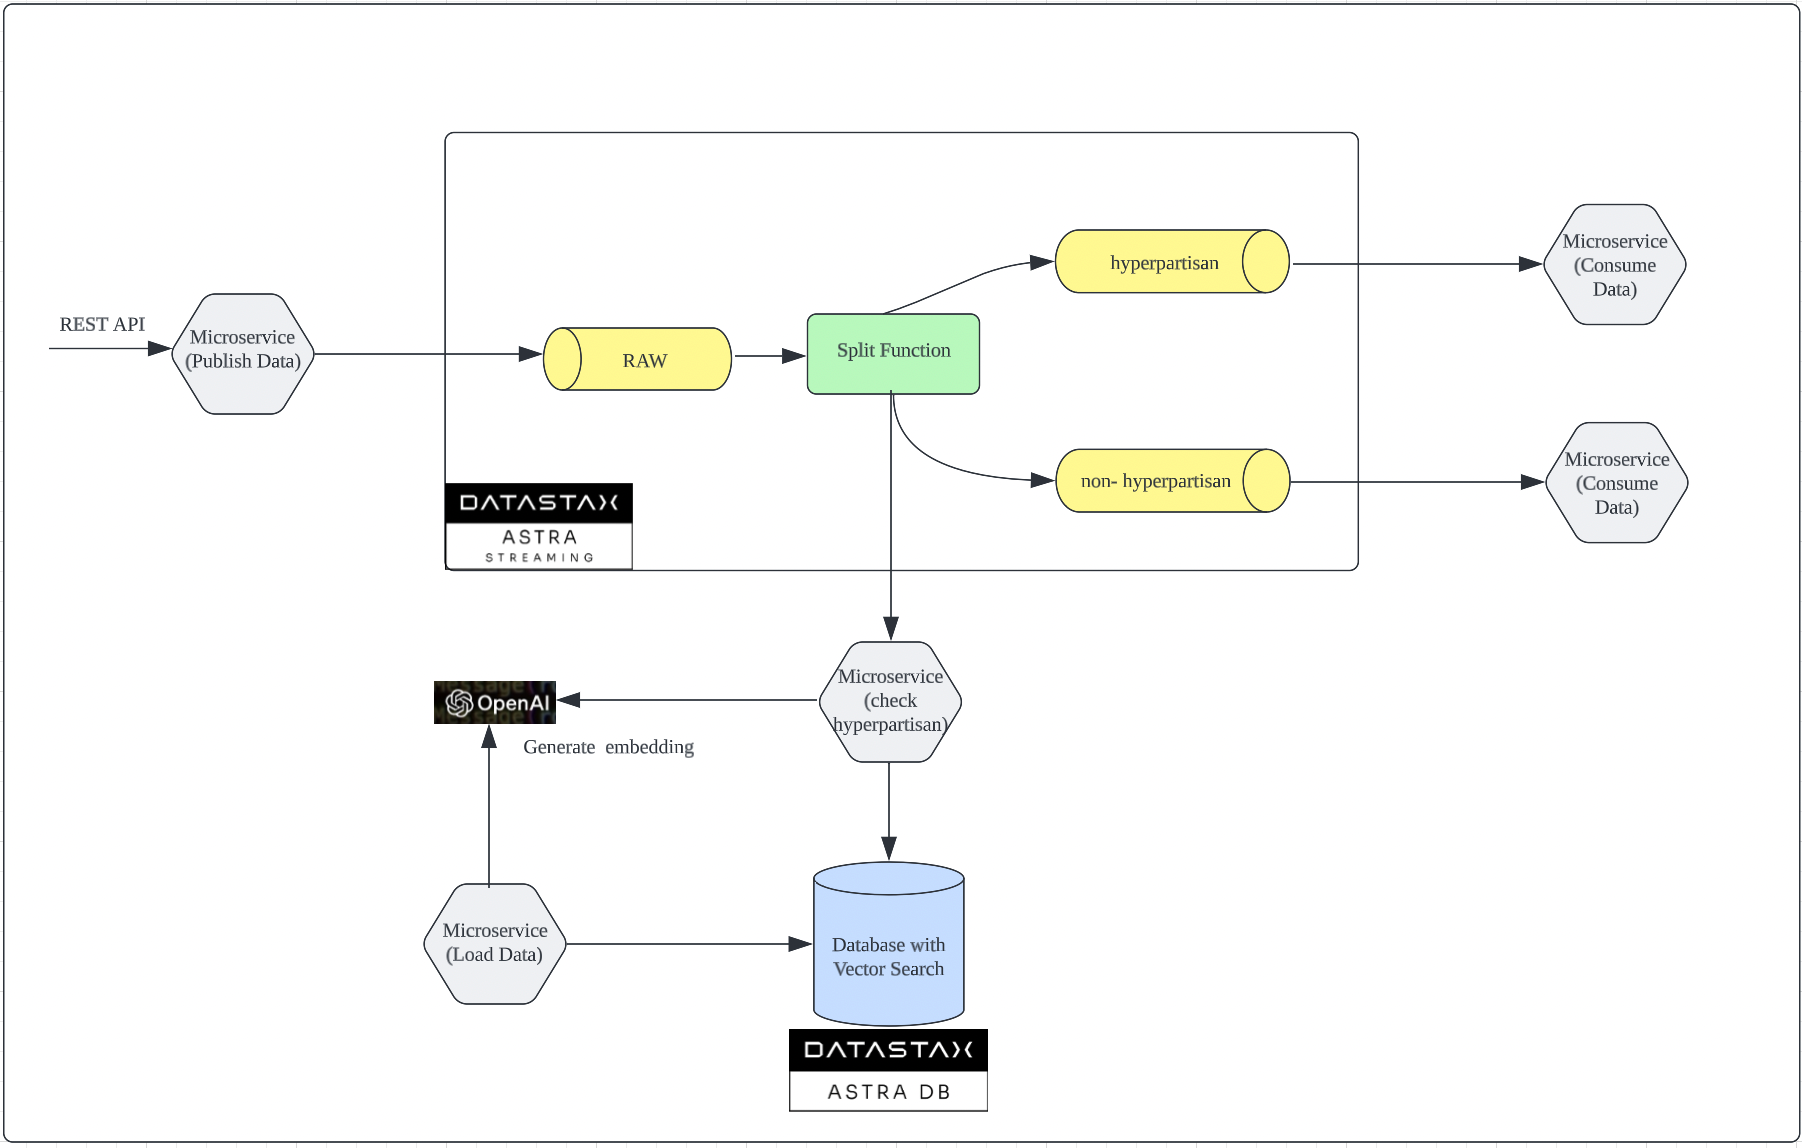
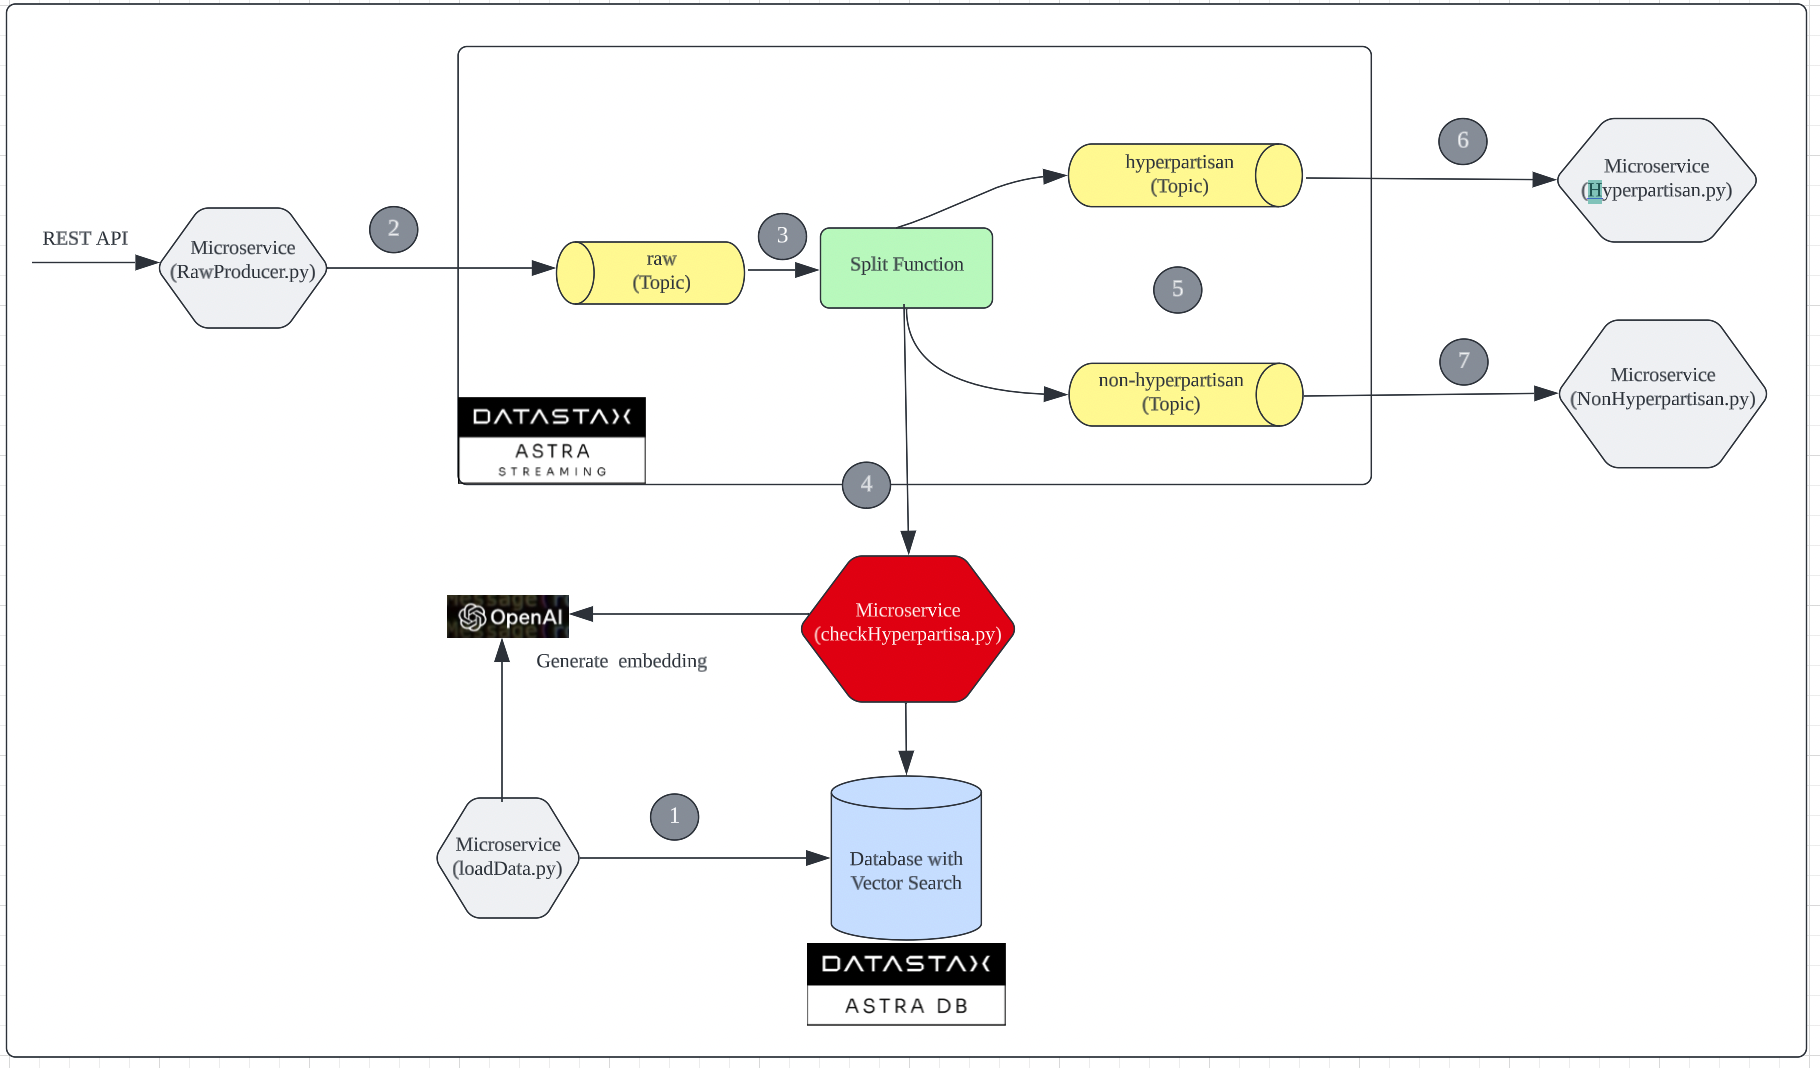
update README.md

diff --git a/README.md b/README.md
@@ -16,10 +16,9 @@ Below is the application flow based on the numbering in Figure 1.
 2. Here start the application flow.  `RawProducer.py` is a producer to publish news content into `raw` topic in streaming solution.  
 3. The messages in `raw` topic process by `split` [function](https://pulsar.apache.org/docs/next/functions-overview/) which invoke the `checkHyperpartisan` service to determine if it is likely a hyperpartisan. 
 4. `checkHyperpartisan` service do the following:
-    * Generate Embedding for the news content of the message from `raw` as shown in bold below.
-    ```
-    {"id": "2468", **"content": "A combative President Trump launched an urgent, last-ditch bid Wednesday to revive an Obamacare repeal effort that had been left for dead just 24 hours earlier, imploring Republicans to stay in Washington until the job is done and warning that failure would decimate the party and its agenda.I'm ready to act, Mr. Trump said at the White House. For seven years you've promised the American people that you would repeal Obamacare. People are hurting. Inaction is not an option. The urgent public plea marked a confrontational shift in tone for Mr. Trump, who had been lobbying senators mainly behind the scenes, and a renewed commitment to the effort. One day earlier,Mr. Trump said Republicans should force Democrats to own Obamacare by letting it collapse under its unsustainable weight.SEE ALSO: Trump hosting GOP senators at White House on Obamacare repeal Mr. Trump got personal at times, leaning into Sen. Dean Heller, a Nevada Republican who faces a tough re-election battle next year and is wary of backing the repeal-and-replace effort.", "title": " President Trump launched an urgent, last-ditch bid"**, "url": "https://towardsdatascience.com/train-a-longformer-for-detecting-hyperpartisan-news-content-7c141230784e",  "publish_at" : "2023-07-10"}
-    ```
+    * Generate Embedding for the news content (`content`) of the message from `raw` topic.
+    ![payload](./images/payload.png)
+
     * Search the related data that is closest to the generated embedding. 
 
     * If the returned result has more than one record with `hyperpartisan` as `True`,  this NEW news contents is likely a hyperpartisan. 
